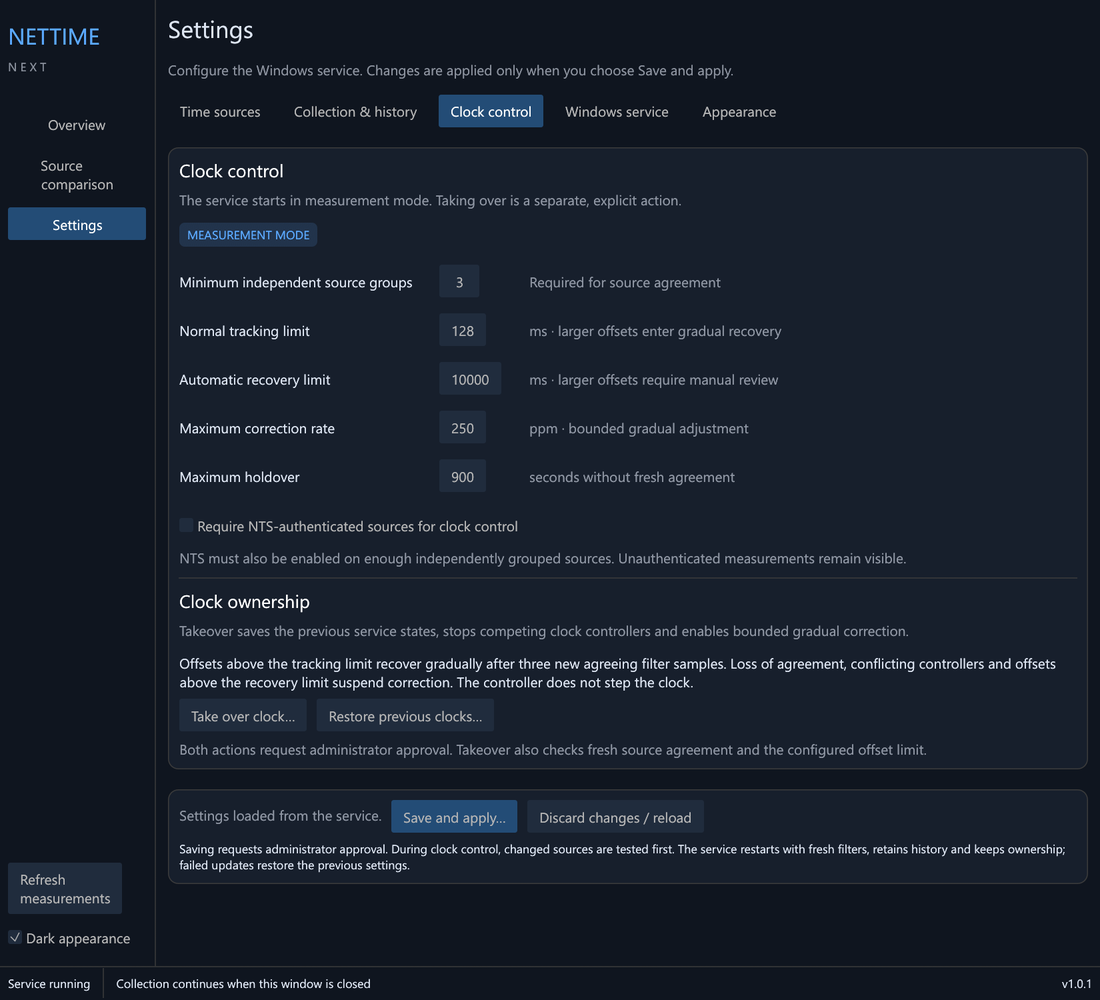
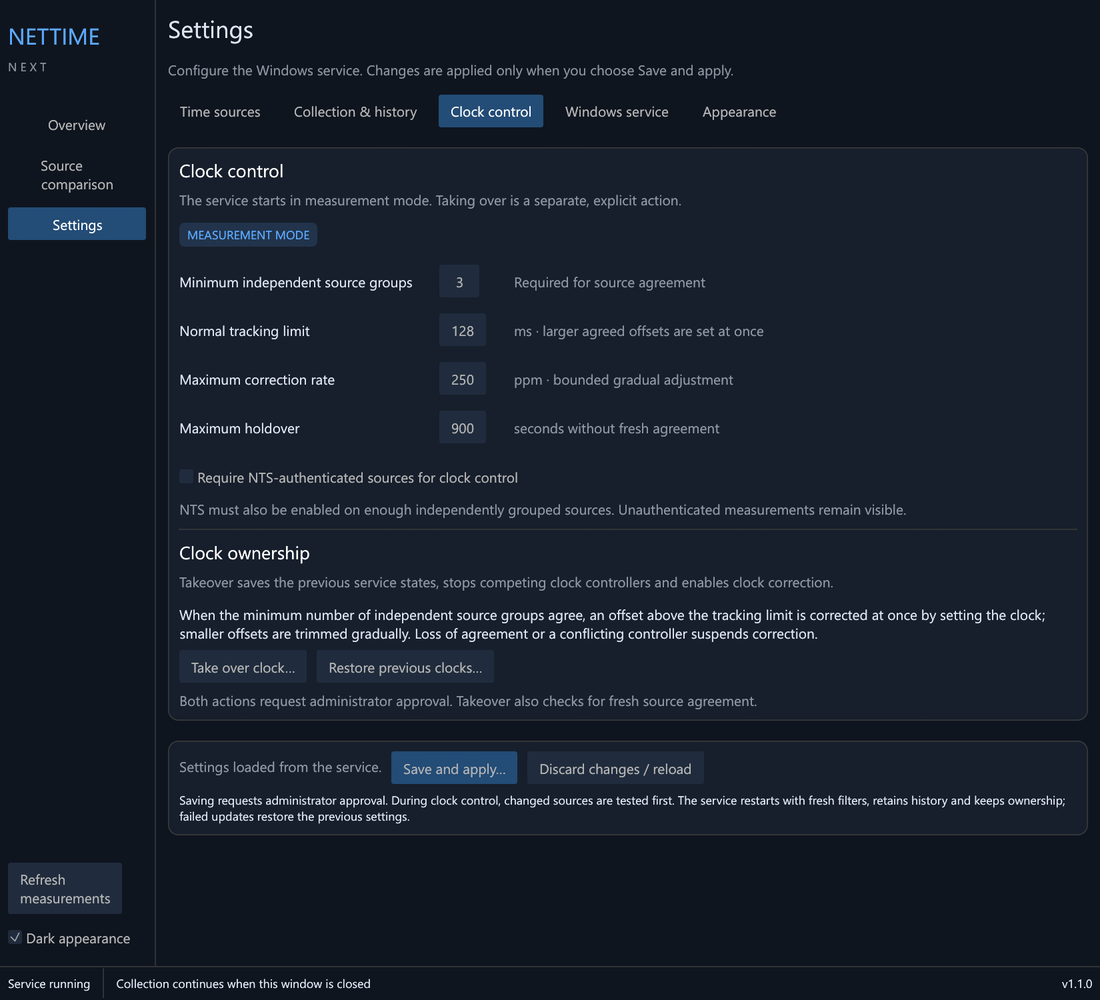
Release NetTime Next 1.1.0
Bumps the version to 1.1.0 and adds release notes. The README and the
README installed with the app describe setting the clock when sources
agree and the single desktop window. The Clock control and Time sources
screenshots are recaptured from this build, and the takeover note no
longer mentions the removed offset limit.

diff --git a/native/package.py b/native/package.py
@@ -75,8 +75,8 @@ def main():
         packages.append(dict(name=package['name'],version=package['version'],license=package['license'],repository=package['repository'],license_files=licenses))
     (notices/'DEPENDENCIES.json').write_text(json.dumps(packages,indent=2)+'\n',encoding='utf-8')
     run(args.iscc.resolve(),ROOT/'installer.iss')
-    installer=ROOT.parent/'dist'/'NetTimeNext-1.0.1-Setup-x64.exe'
-    manifest=dict(version='1.0.1',stage='Bounded automatic clock recovery',installer=installer.name,
+    installer=ROOT.parent/'dist'/'NetTimeNext-1.1.0-Setup-x64.exe'
+    manifest=dict(version='1.1.0',stage='Agreed clock setting and single desktop',installer=installer.name,
                   sha256=hashlib.sha256(installer.read_bytes()).hexdigest(),
                   source_commit=run('git','rev-parse','HEAD',capture=True).strip(),
                   source_dirty=source_dirty(),

diff --git a/native/src/desktop/settings.rs b/native/src/desktop/settings.rs
@@ -302,7 +302,7 @@ impl Desktop {
                 self.administer(vec!["--rollback".into()]);
             }
         });
-        ui.weak("Both actions request administrator approval. Takeover also checks fresh source agreement and the configured offset limit.");
+        ui.weak("Both actions request administrator approval. Takeover also checks for fresh source agreement.");
     }
     fn service_settings(&mut self, ui: &mut egui::Ui) {
         section(

diff --git a/docs/RELEASE-1.1.0.md b/docs/RELEASE-1.1.0.md
@@ -1,0 +1,66 @@
+# NetTime Next 1.1.0
+
+This is the first public release since 1.0.0. It includes the unpublished 1.0.1
+changes and a review of the native client.
+
+## Clock correction
+
+- **Large errors are corrected at once.** When the minimum number of
+  independent source groups (three by default) agree that the PC clock is more
+  than the 128 ms tracking limit out, NetTime Next sets the clock to the agreed
+  time instead of recovering gradually over hours. Smaller errors are still
+  trimmed gradually at a bounded rate. The clock is never set on unagreed,
+  stale or pre-step evidence, or while clock ownership is unverified.
+- **Restarts start on time.** Setting the clock also updates the PC's hardware
+  clock, which Windows reads at boot. Before this, a PC under NetTime Next
+  control could restart several seconds off.
+- The 10-second automatic recovery limit setting is no longer used. Existing
+  settings files still load.
+- Frequency estimation uses the rates actually applied between samples and no
+  longer jumps when the system peer switches between sources polled together.
+- Correction pauses, instead of stopping, when clock ownership can't be checked.
+- Hyper-V guest time synchronization is stopped while NetTime Next owns the
+  clock, and restored on rollback.
+
+## Sources and NTS
+
+- One lost reply no longer removes a source from selection, and a single failed
+  NTS exchange no longer discards the session.
+- NTS key exchange is bounded by one overall deadline, so a slow or trickling
+  server can't stall polling.
+- A slow source no longer holds back every other source's results.
+- Every resolved address is tried, not only the first.
+- RATE and DENY kiss-o'-death replies are handled and recovered from.
+- Stray datagrams are discarded instead of failing the poll.
+- Each source group votes through its best source.
+- 24 bits of the NTP origin timestamp are randomized.
+
+## Desktop
+
+- Opening NetTime Next again brings the running window forward instead of
+  starting another copy.
+- Starting in the tray at sign-in no longer shows the window.
+- History and service state are read off the UI thread.
+
+## Installation and service
+
+- Upgrades from the Rust previews move to the NetTime Next Start menu folder.
+- The data folder is secured before a fresh install uses it.
+- Upgrades keep the service start type and restart the collector if an upgrade
+  is cancelled or fails.
+- Standard users can't hold the administration lock.
+- History writes are deferred while another reader holds the database.
+
+## Validation
+
+- 77 unit tests, including new tests that forged and malformed NTS replies are
+  rejected, and a standards conformance matrix in `docs/CONFORMANCE.md`.
+- The step behaviour was exercised live on one workstation: the service set a
+  7.49 s error in one step after sources agreed, and normal tracking resumed.
+- The desktop's tray lifecycle checks pass. Single-instance behaviour was
+  checked end to end.
+- Not yet done: the physical clock-response and install/upgrade tests in a
+  disposable Windows VM, which are waiting on the dedicated runner.
+
+The installer is unsigned. Windows may show an unknown-publisher warning. Verify
+the SHA-256 against `SHA256SUMS.txt`.

diff --git a/README.md b/README.md
@@ -2,7 +2,7 @@
   <img src="docs/images/logo.png" width="112" height="112" alt="NetTime Next logo">
 </p>
 
-<h1 align="center">NetTime Next 1.0.1</h1>
+<h1 align="center">NetTime Next 1.1.0</h1>
 
 <p align="center">
   Network time monitoring and controlled synchronization for Windows 10/11 x64, with NTS.<br>
@@ -21,22 +21,26 @@
 
 ## Install
 
-Download `NetTimeNext-1.0.1-Setup-x64.exe` from the GitHub release and run it
+Download `NetTimeNext-1.1.0-Setup-x64.exe` from the GitHub release and run it
 with administrator approval. Verify its SHA-256 against `SHA256SUMS.txt`.
 This installer is unsigned; Windows may show an unknown-publisher warning.
 
 The installer starts the background service with Windows and offers a system-tray
 icon at sign-in. Minimise keeps the desktop on the taskbar. X hides it in the tray.
 Click the tray icon to reopen it; Exit desktop app leaves the service running.
+Opening NetTime Next again brings the running window forward instead of starting
+another copy.
 
 New installations start in measurement mode. Configure your sources, let their
 filters settle, then choose Settings > Clock control > Take over clock when you
 want NetTime Next to control Windows time. Clock takeover needs administrator
-approval and at least three eligible independent source groups. Corrections are
-gradual. Offsets above the normal 128 ms tracking limit enter gradual recovery
-after three new agreeing filter samples, up to a separate 10-second recovery
-limit by default. The correction rate stays bounded; larger errors suspend
-correction for manual review. The controller never steps the clock.
+approval and at least three eligible independent source groups. When those
+groups agree and the clock is more than the 128 ms tracking limit out, for
+example after a restart from a drifted hardware clock, NetTime Next sets the
+clock to the agreed time at once. That also updates the PC's hardware clock, so
+the next restart begins close to the right time. Smaller errors are trimmed
+gradually at a bounded rate. Loss of agreement, stale evidence or a conflicting
+clock controller suspends correction.
 
 <p align="center"><img src="docs/images/clock-control.png" width="760" alt="Settings, Clock control page"><br><sub>Settings &gt; Clock control, in measurement mode</sub></p>
 
@@ -93,7 +97,7 @@ Filters settle again after a restart, usually around 8-10 minutes with 64-second
 
 ## Supported scope and validation
 
-This release is a Windows NTPv4 client with NTS support and slew-only clock control.
+This release is a Windows NTPv4 client with NTS support and agreement-gated clock control.
 It is not an NTP server. Formal full-RFC conformance certification and extended
 seven-day controlled-clock endurance validation have not been completed. There is
 no claim of certified accuracy or independent security certification.

diff --git a/native/README.md b/native/README.md
@@ -1,11 +1,11 @@
-# NetTime Next 1.0.1
+# NetTime Next 1.1.0
 
 Network time monitoring and controlled synchronization for Windows 10/11 x64.
 The desktop and automatic Windows service run natively without a Python runtime.
 
 ## Install
 
-Download `NetTimeNext-1.0.1-Setup-x64.exe` from the GitHub release and run it
+Download `NetTimeNext-1.1.0-Setup-x64.exe` from the GitHub release and run it
 with administrator approval. Verify its SHA-256 against `SHA256SUMS.txt`.
 This installer is unsigned; Windows may show an unknown-publisher warning.
 
@@ -71,7 +71,7 @@ Filters settle again after a restart, usually around 8-10 minutes with 64-second
 
 ## Supported scope and validation
 
-This release is a Windows NTPv4 client with NTS support and slew-only clock control.
+This release is a Windows NTPv4 client with NTS support and agreement-gated clock control.
 It is not an NTP server. Formal full-RFC conformance certification and extended
 seven-day controlled-clock endurance validation have not been completed. There is
 no claim of certified accuracy or independent security certification.

diff --git a/native/CHANGELOG.md b/native/CHANGELOG.md
@@ -1,4 +1,4 @@
-## Unreleased
+## 1.1.0
 
 - Sets the clock at once when the minimum number of independent source groups agree it is more than the tracking limit out, instead of recovering gradually over hours. Setting the time also updates the PC's hardware clock, so restarts no longer begin seconds off. The recovery limit setting is no longer used.
 - Opening the desktop again brings the running window forward instead of starting another copy; sign-in tray starts stay hidden.
